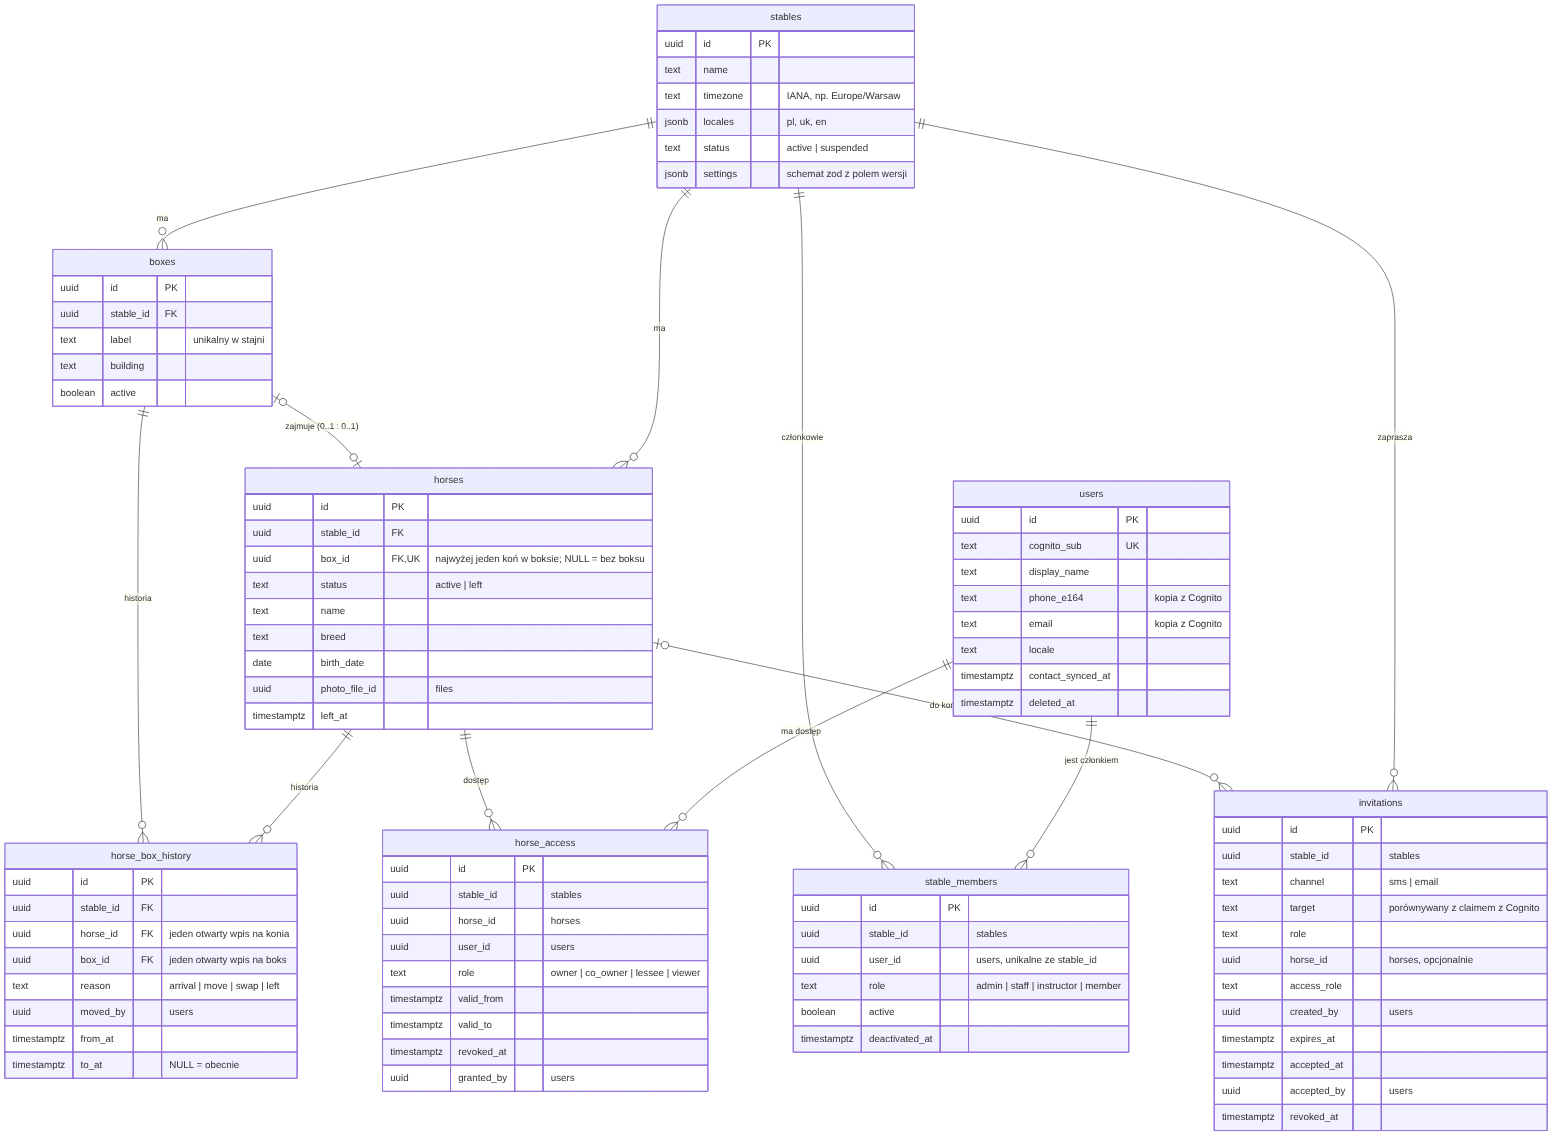
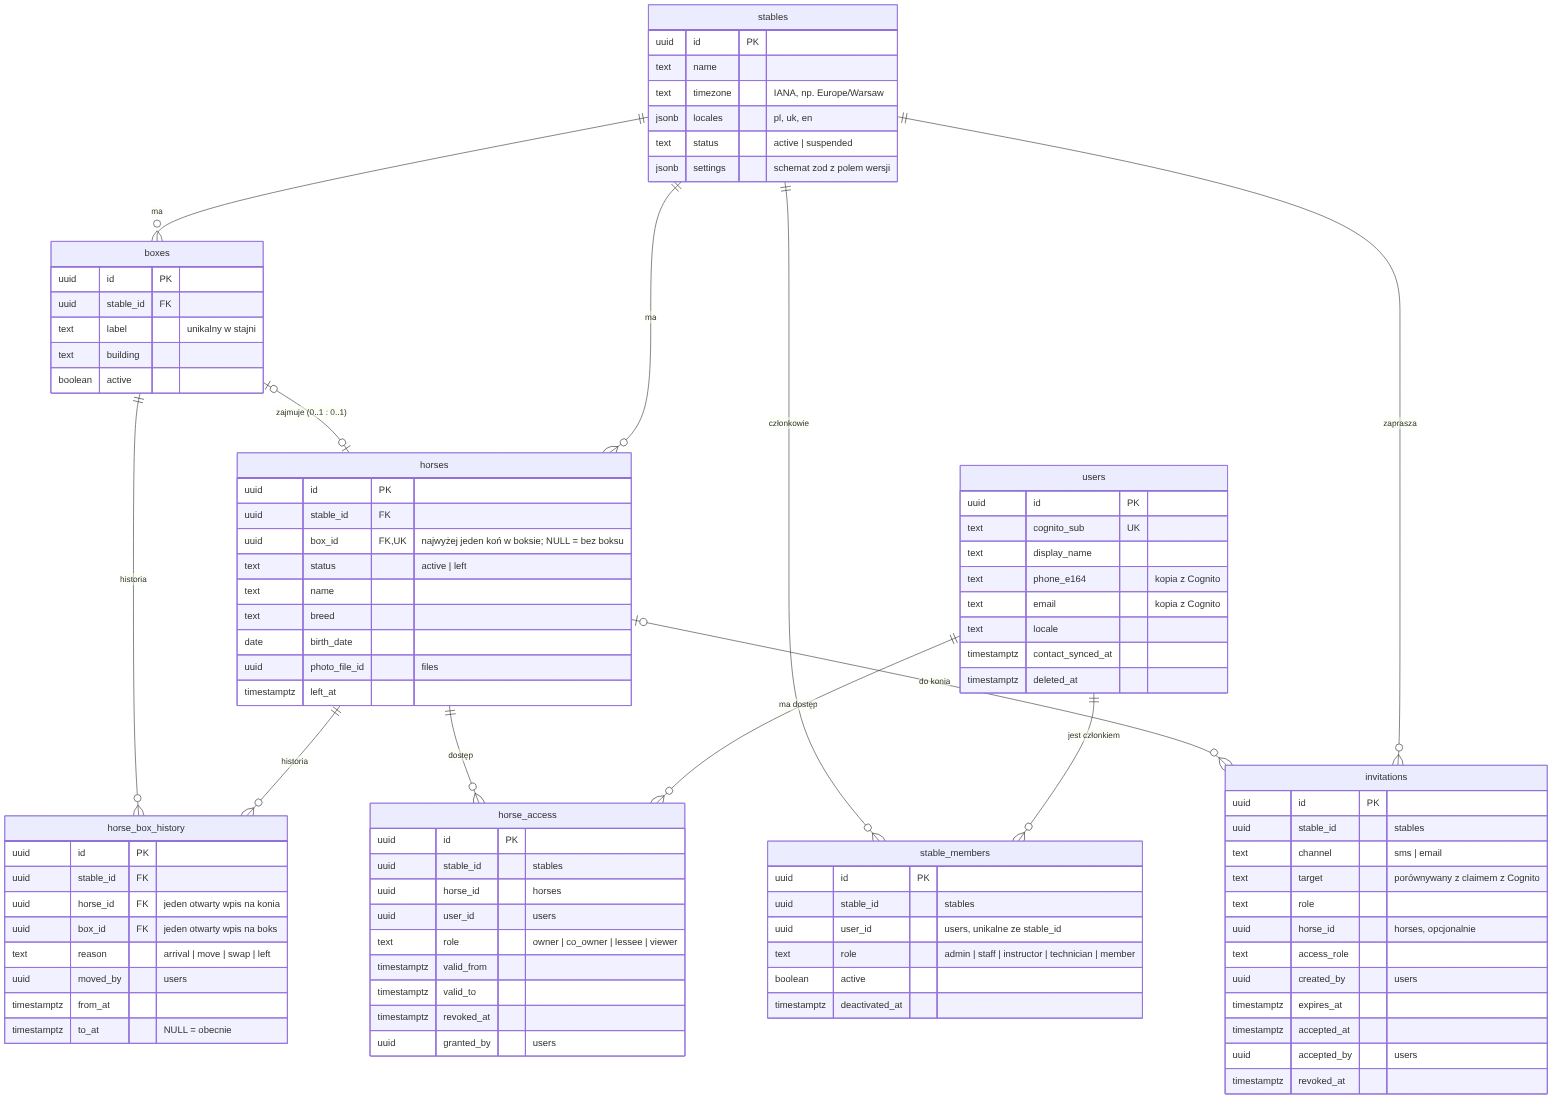
ERD: kolejki SNS + SQS bez outboxów, jeden pakiet schematu, serwisant
- Zdarzenia między serwisami publikowane po commicie do SNS, każdy
  konsument ma kolejkę SQS z DLQ; obsługa idempotentna przez unikalne
  klucze, bez tabel outbox i inbox. Krytyczne ścieżki nie zależą
  wyłącznie od zdarzeń; dochodzi cron horse-left-reconciler.
- Jeden schemat z definicją tabel i migracjami w packages/db.
- Rola technician (serwisant) może odblokować boks na tablecie
  (propozycja). E-maile z notifications mogą iść przez SES.

Claude-Session: https://claude.ai/code/session_01T9ZxQWgubbAK5UkHpSX6x9

diff --git a/docs/erd.md b/docs/erd.md
@@ -6,7 +6,7 @@
 > - Cognito jako serwer autoryzacji (OTP przez SMS i TOTP z RFC 6238);
 > - pliki w S3;
 > - koń i boks w relacji 0..1 do 0..1 (koń może stać bez boksu, boks bez konia);
-> - bez WebSocketów;
+> - bez WebSocketów i bez outboxów; zdarzenia między serwisami idą przez SNS + SQS;
 > - użytkownik logowany na tabletach, który może zablokować na tablecie wybrany boks.
 
 ## Do zatwierdzenia
@@ -27,14 +27,14 @@
    - Założenia do potwierdzenia:
      - na tablecie jest zalogowany jeden użytkownik naraz;
      - zablokować można tylko boks, który użytkownik ma prawo widzieć;
-     - odblokować może ten, kto zablokował, albo admin stajni;
+     - odblokować może ten, kto zablokował, admin stajni albo serwisant (rola `technician` w `stable_members`; propozycja do potwierdzenia);
      - po wylogowaniu blokada zostaje, a tablet czeka na kolejne logowanie i wraca do tego samego boksu.
 3. **Jedna baza, jeden schemat, właściciel tabeli.**
    - Każda tabela ma jeden serwis-właściciela (tabela niżej). Tylko właściciel do niej pisze; pozostałe serwisy mogą ją czytać.
    - Klucze obce są normalne, także między tabelami różnych serwisów.
    - Dzięki temu nie ma replik ani synchronizacji danych między serwisami. Na przykład `board` składa stan tablicy, czytając wprost konie, flagi i plany karmienia.
+   - Serwisy czytają te same tabele, więc mają jeden schemat. Definicja tabel i migracje leżą w jednym pakiecie monorepo (`packages/db`), a serwisy importują z niego typy tabel.
    - Koszt: zmiana kolumny czytanej przez inne serwisy musi być zgodna wstecz (najpierw dodać, potem usunąć).
-   - Osobne schematy per serwis w PostgreSQL nic nie kosztują w działaniu (to tylko przestrzenie nazw). Kosztowny był zakaz czytania cudzych tabel, który wymuszał repliki, i z niego rezygnujemy.
 4. **Tożsamość w Cognito.**
    - `users.cognito_sub` wiąże nasz profil z kontem w puli Cognito.
    - Hasła, kody OTP (SMS, TOTP), sesje i tokeny trzyma Cognito. Cognito jest też źródłem prawdy dla telefonu i e-maila, a `users` trzyma ich kopię do powiadomień.
@@ -48,7 +48,15 @@
 6. **Bez WebSocketów.**
    - Tablet co kilka sekund odpytuje przez REST stan zablokowanego boksu (`board_states`) z `ETag`; gdy nic się nie zmieniło, dostaje `304`.
    - `board_device_sync` zapisuje, co tablet pobrał i co wyświetlił.
-   - Między serwisami: kolejki albo REST. Przy kolejkach każdy serwis ma techniczne tabele `outbox` i `inbox`, których nie ma na diagramach.
+   - Między serwisami: kolejki **SNS + SQS**, bez outboxów.
+     - Serwis po zatwierdzeniu transakcji publikuje zdarzenie do tematu SNS (jeden temat na rodzaj zdarzenia).
+     - Każdy konsument ma własną kolejkę SQS z kolejką błędów (DLQ).
+     - SQS może dostarczyć wiadomość więcej niż raz, więc obsługa jest idempotentna: zapisy opierają się na unikalnych kluczach w tabelach docelowych, bez osobnej tabeli `inbox`.
+   - Bez outboxu zdarzenie może zginąć, gdy serwis padnie między zapisem w bazie a publikacją. Dlatego żadna krytyczna ścieżka nie opiera się wyłącznie na zdarzeniu:
+     - eskalacje liczy cron prosto z bazy;
+     - `board` przy odpytywaniu porównuje wersje w bazie;
+     - cron uzgadniający poprawia skutki `horse.left`.
+   - E-maile z `notifications` mogą iść przez SES (adapter `EmailSender`).
 7. **Sloty posiłków i padoki należą do `care`, a hale do `rides`**, bo te serwisy z nich korzystają.
 8. **Płatności (`billing`).**
    - Płaci stajnia: ma konto rozliczeniowe (dane do faktury) i subskrypcję planu.
@@ -110,13 +118,14 @@
 | `billing-usage-snapshot` | `billing` (czyta `horses`, `devices`) | Raz w okresie zapisuje zużycie: boksy z koniem, aktywne tablety |
 | `billing-invoicing` | `billing`, `files` | Wystawia faktury z pozycjami, PDF do S3, przekazuje do systemu faktur |
 | `billing-dunning` | `billing`, `notifications` | Przypomnienia o zaległych płatnościach, po terminie `past_due`, potem `suspended` |
+| `horse-left-reconciler` | `access`, `flags`, `care`, `tasks`, `rides` | Szuka koni `left` z otwartymi dostępami, flagami albo planami i zleca ich zamknięcie właścicielom (na wypadek zgubionego zdarzenia) |
 | `retention-pruner` | wszystkie | Woła endpoint `prune` każdego serwisu, bo usuwać może tylko właściciel tabeli |
 
 ## Współpraca serwisów
 
 - **Odczyt:** każdy serwis może czytać tabele innych serwisów. `board` składa stan tablicy z `stables`, `boxes`, `horses`, `horse_flags`, `feeding_plans`, `feeding_checks`, `paddock_plans`, `health_events` (sam typ i termin), `task_occurrences` i `device_box_locks`. Uprawnienia sprawdza w `stable_members` i `horse_access`.
-- **Zapis:** tylko przez serwis-właściciela, czyli przez jego REST albo kolejkę. Zapisy z tabletu i apki (potwierdzenia, odhaczenia) idą synchronicznym REST, bo klient potrzebuje wyniku dla każdego zdarzenia.
-- **Zdarzenia** (kolejki albo REST, decyzja otwarta) służą reakcjom, a nie kopiowaniu danych:
+- **Zapis:** tylko przez serwis-właściciela, czyli przez jego REST albo jego kolejkę SQS. Zapisy z tabletu i apki (potwierdzenia, odhaczenia) idą synchronicznym REST, bo klient potrzebuje wyniku dla każdego zdarzenia.
+- **Zdarzenia** (SNS + SQS, publikowane po zatwierdzeniu transakcji) służą reakcjom, a nie kopiowaniu danych:
   - `flag.changed` unieważnia cache `board_states`;
   - `horse.left` zamyka flagi, plany i dostępy w serwisach-właścicielach;
   - `subscription.status_changed` zmienia `stables.status`.
@@ -198,7 +207,7 @@ erDiagram
         uuid id PK
         uuid stable_id "stables"
         uuid user_id "users, unikalne ze stable_id"
-        text role "admin | staff | instructor | member"
+        text role "admin | staff | instructor | technician | member"
         boolean active
         timestamptz deactivated_at
     }
@@ -811,7 +820,7 @@ erDiagram
 - **Przejmuje S3:** `stored_files` i `stored_file_chunks`.
 - **Serwisy:** dochodzi `billing` (płatności). Każda tabela ma serwisu-właściciela, ale wszystko jest w jednym schemacie.
 - **Odpada razem z WebSocketami i monolitem:**
-  - `outbox_seq` i `outbox_events`; przy kolejkach każdy serwis ma własny `outbox`;
+  - `outbox_seq` i `outbox_events`; zdarzenia idą wprost do SNS + SQS, bez outboxów;
   - `jobs`, bo crony są serwisami;
   - `boxes.board_version` przechodzi do `board_states.version`.
 - **Załączniki:** ogólne `attachments` zastępuje `health_attachments`, bo w v1 załączniki są tylko w zdrowiu.
